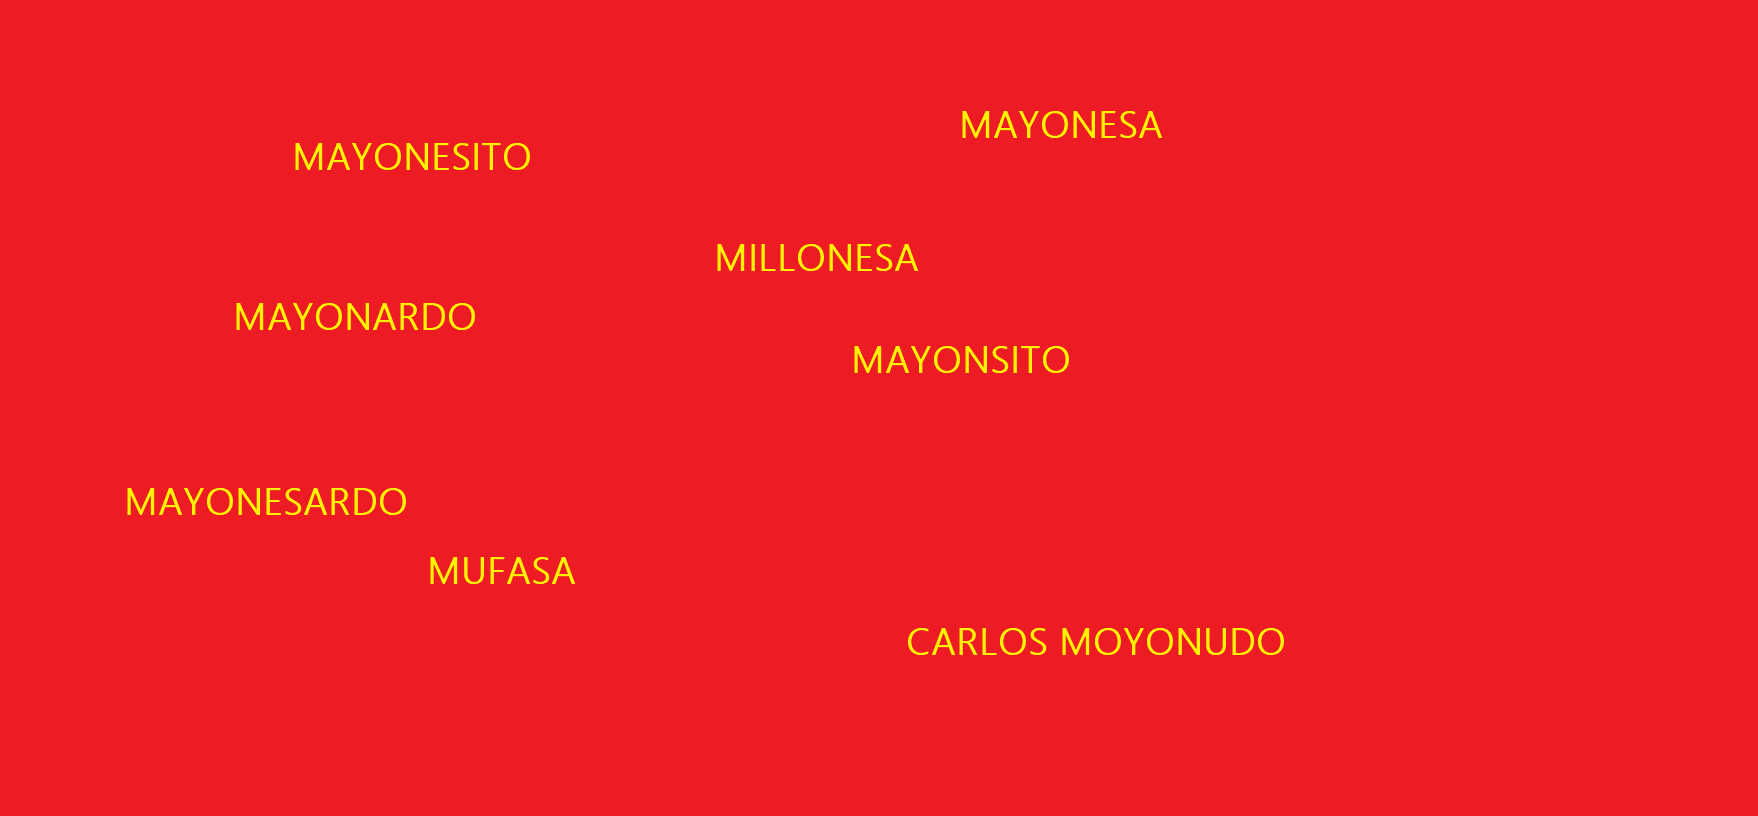
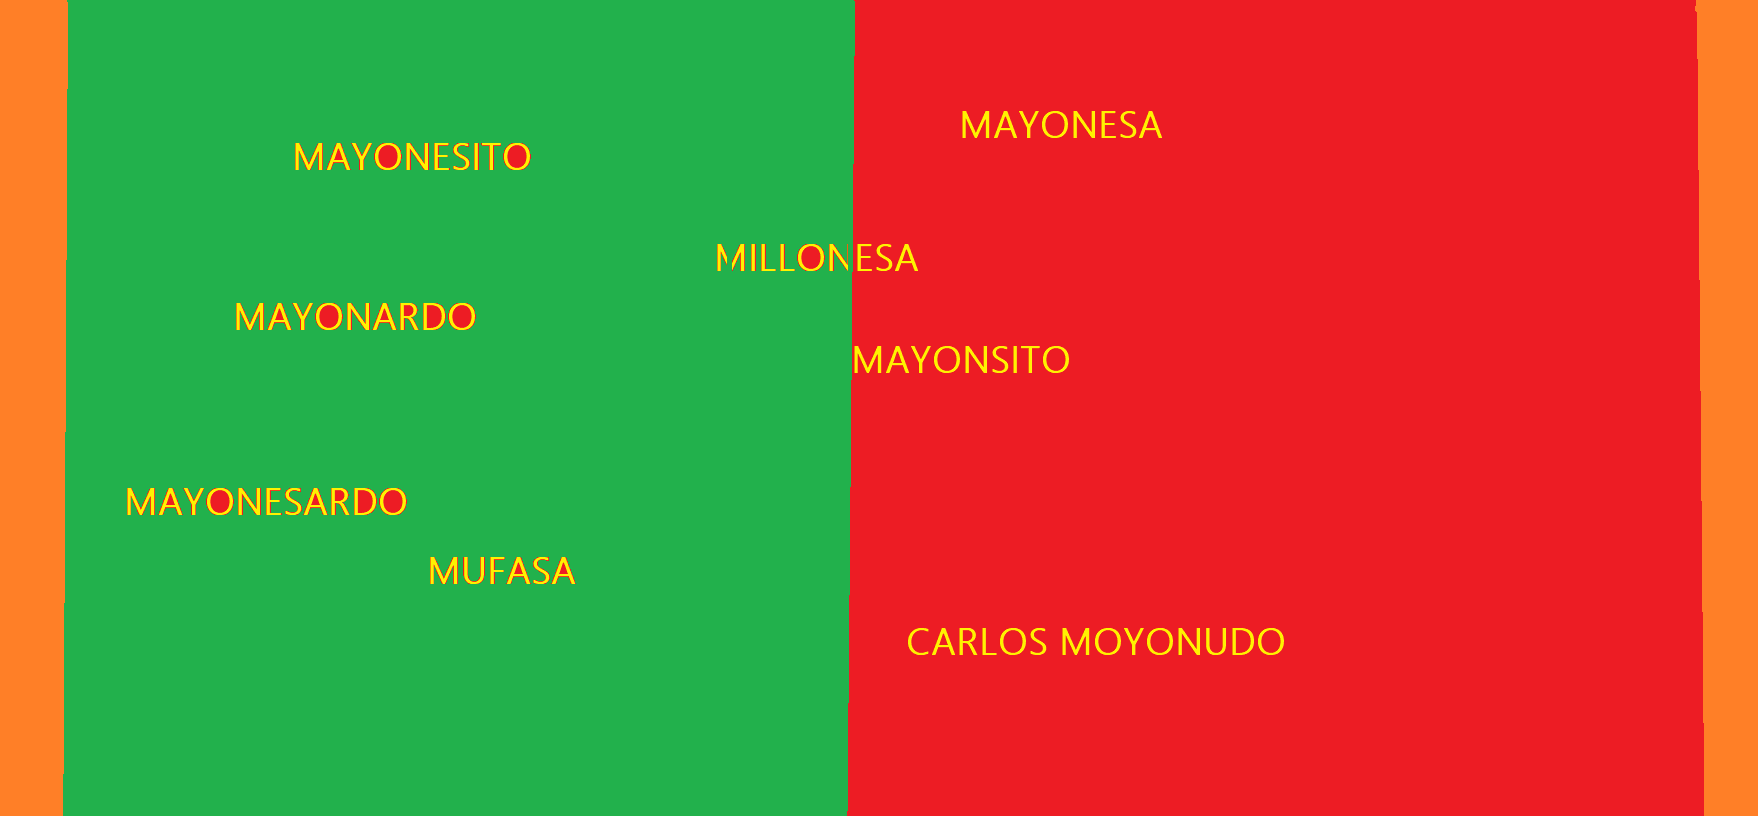
Parallax avance
Señoras y señores, bienvenidos al circo. Toda la gente pegando gritos... Y sin más dilación, que aparezca uno de nuestros grandes números... Toda la gente gritando EL PAN QUE HABLA EL PAN QUE HABLA

diff --git a/Project Stroke/Proyecto/components/Parallax.cpp b/Project Stroke/Proyecto/components/Parallax.cpp
@@ -1,0 +1,70 @@
+#include "Parallax.h"
+#include "Transform.h"
+#include "../ecs/Entity.h"
+#include "../ecs/Manager.h"
+#include "../ecs/Camera.h"
+#include "BackGround.h"
+
+
+
+Parallax::Parallax(Texture* im, float vel) 
+{
+	//CREAMOS LOS 3 FONDOS
+	//izquierda
+
+	tex_ = im;
+	pxVel_ = vel;
+	
+}
+
+void Parallax::init()
+{
+	
+	auto backLeft = entity_->getMngr()->addBackGround();
+	backLeft->addComponent<Transform>(Vector2D(0, 0), Vector2D(0, 0), 100, 1080, 0.0, 1, 1);
+	backLeft->addComponent<BackGround>(tex_, pxVel_);
+	leftTr_ = backLeft->getComponent<Transform>();
+	//central
+	auto backCenter = entity_->getMngr()->addBackGround();
+	backCenter->addComponent<Transform>(Vector2D(100, 0), Vector2D(0, 0), 100, 1080, 0.0, 1, 1);
+	backCenter->addComponent<BackGround>(tex_, pxVel_);
+	centerTr_ = backCenter->getComponent<Transform>();
+	//derecha
+	auto backRight = entity_->getMngr()->addBackGround();
+	backRight->addComponent<Transform>(Vector2D(200, 0), Vector2D(0, 0), 100, 1080, 0.0, 1, 1);
+	backRight->addComponent<BackGround>(tex_, pxVel_);
+	rightTr_ = backRight->getComponent<Transform>();
+}
+
+void Parallax::update()
+{
+	//Cogemos la posicion anterior de la camara
+	Vector2D antPos = camPos_;
+
+	//Cogemos la posicion actual de la camara
+	camPos_ = entity_->getMngr()->getHandler<Camera__>()->getComponent<Camera>()->getCamPos();
+
+
+	//Comprobamos si ha llegado a alguna de las posiciones relativas y actualizamos
+	if (checkRelativePos())
+		updateRelativePos();
+
+}
+
+void Parallax::updateRelativePos()
+{
+	/*targetLeftPos = tr_->getPos().getX() - tr_->getW();
+	targetRightPos = tr_->getPos().getX() + tr_->getW();
+	actualLeftPos = targetLeftPos;
+	actualRightPos = targetRightPos;*/
+}
+
+bool Parallax::checkRelativePos()
+{
+	/*float originPos = tr_->getPos().getX();
+	if (originPos <= targetLeftPos || originPos >= targetRightPos)
+		return true;
+	else
+		return false;*/
+	return true;
+}

diff --git a/Project Stroke/Proyecto/components/MapMngr.cpp b/Project Stroke/Proyecto/components/MapMngr.cpp
@@ -41,6 +41,9 @@
 #include "../components/FirstBossBehaviour.h"
 #include "../components/FirstBossAttack.h"
 #include "../components/BackGround.h"
+#include "../components/Parallax.h"
+
+
 
 
 
@@ -113,9 +116,13 @@ void MapMngr::loadNewMap(string map) {
 			i++;
 		}
 		
-		auto* o = entity_->getMngr()->addBackGround();
-		o->addComponent<Transform>(Vector2D(0,0), Vector2D(0, 0), 5000, 15000, 0.0, 1, 1);
-		o->addComponent<BackGround>(&sdlutils().images().at("MAYONESITO"), 80);
+		//Fondos
+		/*auto* o = entity_->getMngr()->addBackGround();
+		o->addComponent<Transform>(Vector2D(0,0), Vector2D(0, 0), 100, 1080, 0.0, 1, 1);
+		o->addComponent<BackGround>(&sdlutils().images().at("MAYONESITO"), 80);*/
+		auto* o = entity_->getMngr()->addEntity();
+		o->addComponent<Transform>(Vector2D(0, 0), Vector2D(0, 0), 100, 1080, 0.0, 1, 1);
+		o->addComponent<Parallax>(&sdlutils().images().at("MAYONESITO"), 80);
 
 		for (const auto& layer : layers)
 		{
@@ -171,6 +178,7 @@ void MapMngr::loadNewMap(string map) {
 							hamster1->addComponent<Transform>(
 								Vector2D(object.getPosition().x * scale, object.getPosition().y * scale),
 								Vector2D(), 256.0f, 256.0f, 0.0f, 0.9f, 0.85f);
+
 							hamster1->addComponent<HamsterStateMachine>();
 
 							hamster1->addComponent<EntityAttribs>(100, 0.0, "sardinilla", Vector2D(7, 4.5), 0, 15);

diff --git a/Project Stroke/Proyecto/components/Parallax.h b/Project Stroke/Proyecto/components/Parallax.h
@@ -1,0 +1,42 @@
+#pragma once
+#include "../sdlutils/Texture.h"
+#include "../ecs/Entity.h"
+#include "Transform.h"
+
+class Parallax : public Component
+{
+private:
+	//porcentaje de velocidad a la que va el parallax, respectivo a la camara
+	float pxVel_;
+	//Textura del fondo
+	Texture* tex_;
+
+	//Posicion de la camara
+	Vector2D camPos_;
+
+	//Posicion (x) del parallax de la izquierda
+	float targetLeftPos;
+	float actualLeftPos;
+	//Posicion (x) del parallax de la derecha
+	float targetRightPos;
+	float actualRightPos;
+
+	//Actualiza las posiciones relativas
+	void updateRelativePos();
+
+	//Comprueba que el parallax se ha movido hasta alguna
+	//de las posiciones relaticas
+	bool checkRelativePos();
+
+	//Accesos a Transforms de los 3 fondos
+	Transform* leftTr_;
+	Transform* centerTr_;
+	Transform* rightTr_;
+
+public:
+	Parallax(Texture* im, float vel);
+	virtual ~Parallax() {};
+	virtual void update();
+	virtual void init();
+
+};

diff --git a/Project Stroke/Proyecto/components/BackGround.cpp b/Project Stroke/Proyecto/components/BackGround.cpp
@@ -1,7 +1,24 @@
 #include "BackGround.h"
 
-void BackGround::update() {
+BackGround::BackGround(Texture* im, float vel) : Image(im)
+{
+	//Asignamos la textura
+	tex_ = im;
+
+	//Asignamos la velocidad
+	pxVel_ = vel;
+
+}
+
+void BackGround::update() 
+{
+	//Cogemos la posicion anterior de la camara
 	Vector2D antPos = camPos_;
+
+	//Cogemos la posicion actual de la camara
 	camPos_ = entity_->getMngr()->getHandler<Camera__>()->getComponent<Camera>()->getCamPos();
-	tr_->setPos(Vector2D(tr_->getPos().getX() + (camPos_.getX() - antPos.getX())*pxVel_/100, 0));
+
+	//Movemos el background en sentido contrario en funcion de la camara
+	tr_->setPos(Vector2D(tr_->getPos().getX() - (camPos_.getX() - antPos.getX())*pxVel_/100, 0));
+	
 }

diff --git a/Project Stroke/Proyecto/components/BackGround.h b/Project Stroke/Proyecto/components/BackGround.h
@@ -6,10 +6,16 @@
 class BackGround : public Image
 {
 private:
+	//porcentaje de velocidad a la que va el parallax, respectivo a la camara
 	float pxVel_;
+	//Posicion de la camara
 	Vector2D camPos_;
+	//Textura del fondo
+	Texture* tex_;
+
+
 public:
-	BackGround(Texture* im, float vel) : Image(im) { pxVel_ = vel; };
+	BackGround(Texture* im, float vel);
 	virtual ~BackGround() {};
 	virtual void update();
 };

diff --git a/Project Stroke/Proyecto/game/ecs_defs.h b/Project Stroke/Proyecto/game/ecs_defs.h
@@ -54,6 +54,7 @@ class CheckCollisions;
 class FirstBossBehaviour;
 class FirstBossAttack;
 class BackGround;
+class Parallax;
 
 #define _CMPS_LIST_  \
 	Transform,\
@@ -109,7 +110,8 @@ class BackGround;
 	FirstBossAttack, \
 	FirstBossBehaviour, \
 	FollowPlayer, \
-	BackGround
+	BackGround, \
+	Parallax
 
 //FollowPlayer, \
 
